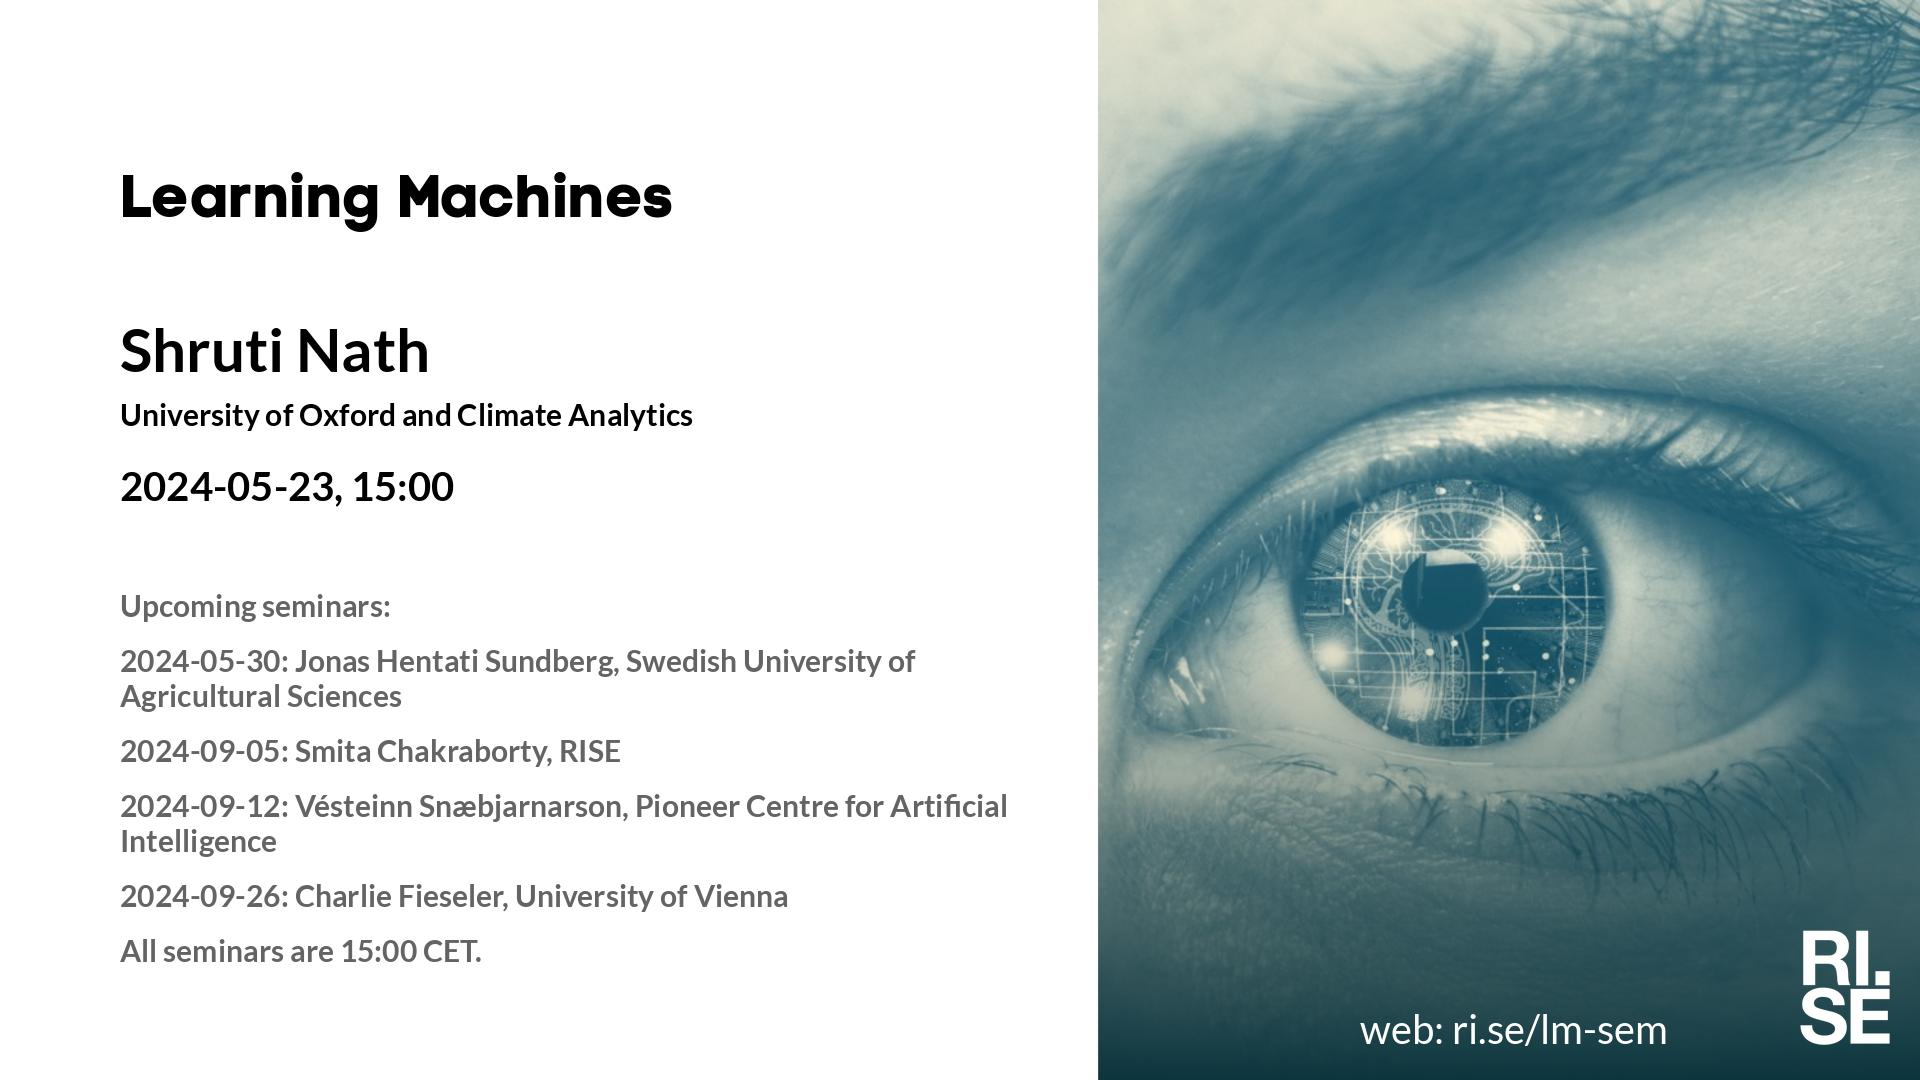
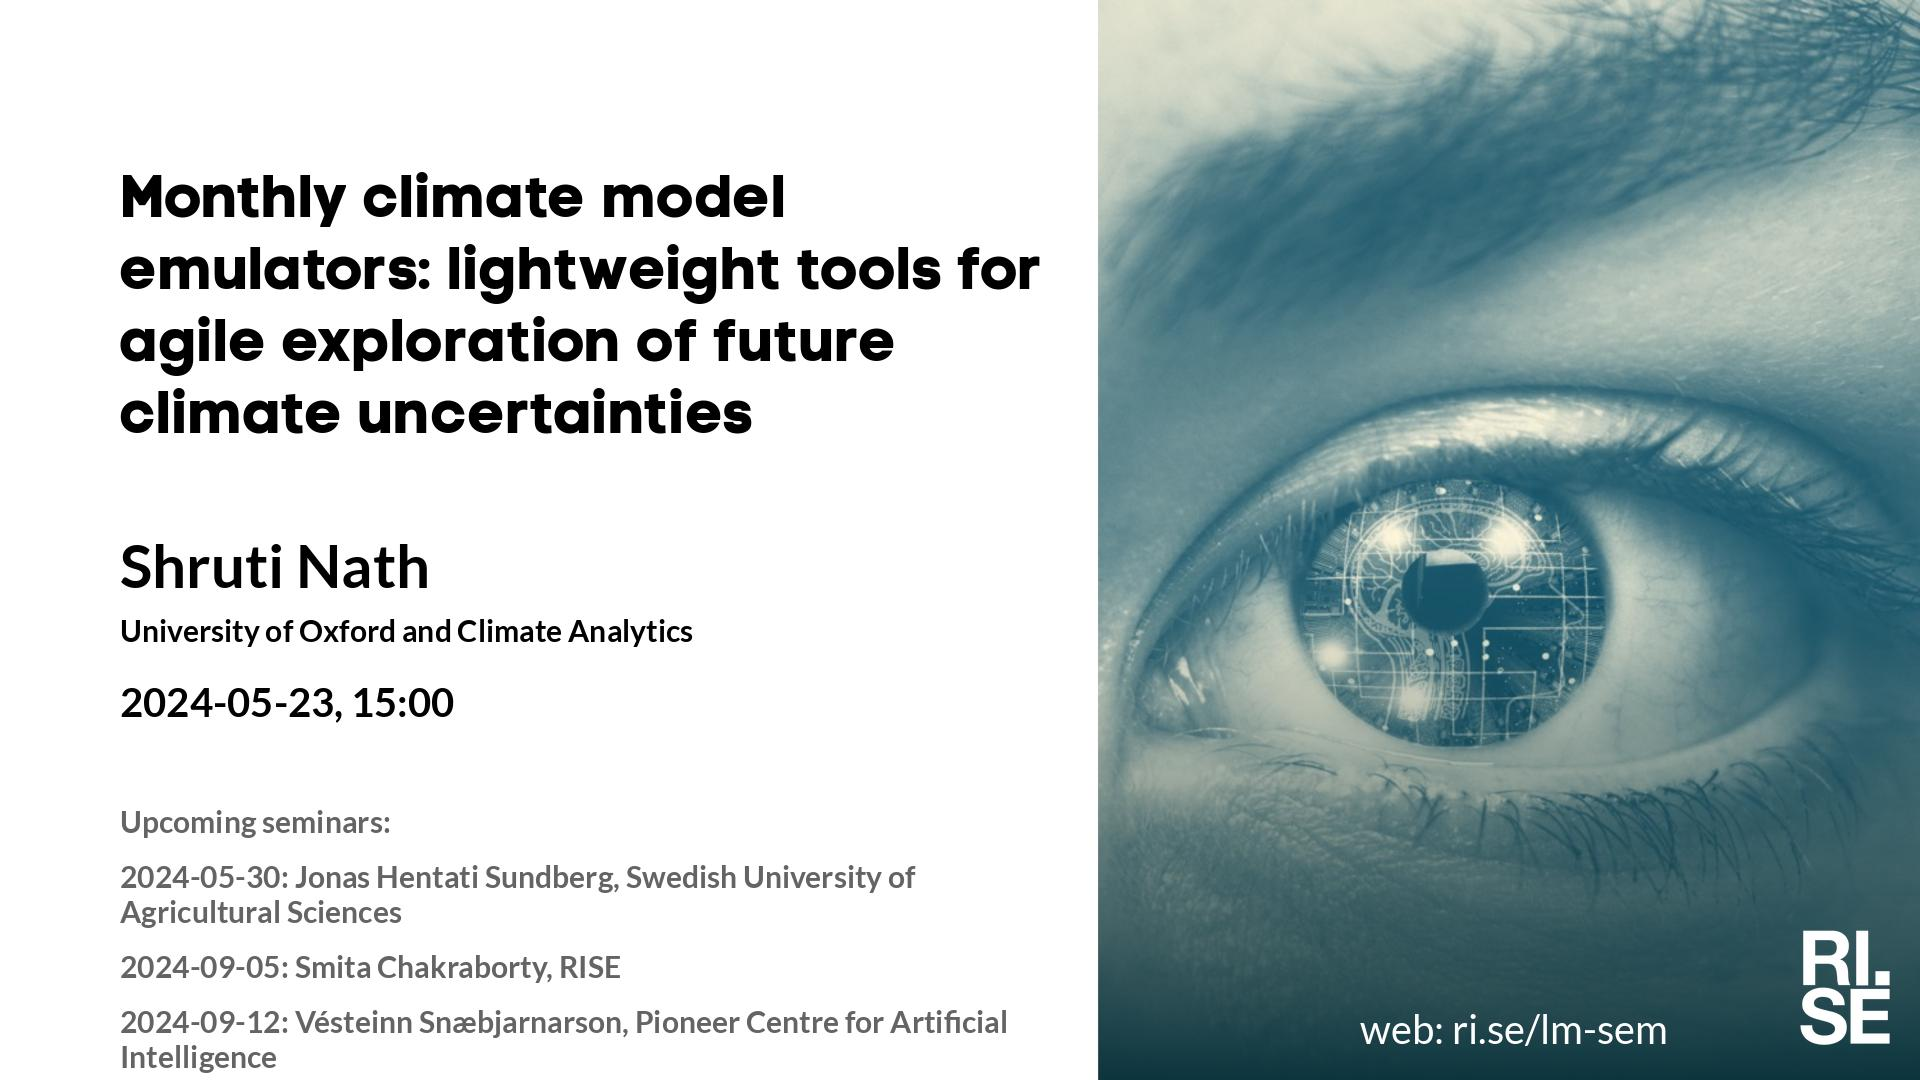
Updated plan on web site.

Changed region(s): [[0.0625, 0.7333, 0.5312, 1.0], [0.0625, 0.1528, 0.5625, 0.4278], [0.0625, 0.4278, 0.4688, 0.7028]]

diff --git a/lm/index.md b/lm/index.md
@@ -5,15 +5,14 @@ metatags: "<meta name=\"robots\" content=\"noindex,nofollow\" />"
 <style type="text/css" scoped>
 td, th {border: 1px solid #ccc; padding: 0.6em;}
 table {border-collapse: collapse;}
-</style># Learning Machines Plan 2024-05-14
+</style># Learning Machines Plan 2024-05-17
 
 | date | speaker                                   | photo | shareable | meeting backdrop | youtube thumbnail | <a title="Speaker, Title, Abstract, Bio, Photo. Strikethrough means we don't have it yet.">comment</a>        |
 | ---- | ----------------------------------------- | ----- | ----- | ----- | ----- | -------------- |
-|  2024-04-25  |  [TBA](2024-04-25.md)  |    |  [social media ](social-media-tba.jpg)  |  [meeting backdrop ](meeting-backdrop-tba.jpg)  |  [youtube thumbnail ](youtube-thumbnail-tba.jpg)  |  S~~TABP~~  |
 | <span style="color:red"> 2024-05-02 </span> | <span style="color:red"> ICLR </span> | <span style="color:red">  </span> | <span style="color:red">  </span> | <span style="color:red">  </span> | <span style="color:red">  </span> | <span style="color:red"> CANCELLED </span> |
 | <span style="color:red"> 2024-05-09 </span> | <span style="color:red"> ICLR </span> | <span style="color:red">  </span> | <span style="color:red">  </span> | <span style="color:red">  </span> | <span style="color:red">  </span> | <span style="color:red"> CANCELLED </span> |
 |  2024-05-16  |  [Mikolaj Czerkawski, European Space Agency](2024-05-16.md)  |  [photo](photo-mikolaj-czerkawski.jpg)  |  [social media ](social-media-mikolaj-czerkawski.jpg)  |  [meeting backdrop ](meeting-backdrop-mikolaj-czerkawski.jpg)  |  [youtube thumbnail ](youtube-thumbnail-mikolaj-czerkawski.jpg)  |  STABP  |
-|  2024-05-23  |  [Shruti Nath, University of Oxford and Climate Analytics](2024-05-23.md)  |  [photo](photo-shruti-nath.png)  |  [social media ](social-media-shruti-nath.jpg)  |  [meeting backdrop ](meeting-backdrop-shruti-nath.jpg)  |  [youtube thumbnail ](youtube-thumbnail-shruti-nath.jpg)  |  S~~TAB~~P  |
+|  2024-05-23  |  [Shruti Nath, University of Oxford and Climate Analytics](2024-05-23.md)  |  [photo](photo-shruti-nath.png)  |  [social media ](social-media-shruti-nath.jpg)  |  [meeting backdrop ](meeting-backdrop-shruti-nath.jpg)  |  [youtube thumbnail ](youtube-thumbnail-shruti-nath.jpg)  |  STABP  |
 |  2024-05-30  |  [Jonas Hentati Sundberg, Swedish University of Agricultural Sciences](2024-05-30.md)  |  [photo](photo-jonas-hentati-sundberg.jpg)  |  [social media ](social-media-jonas-hentati-sundberg.jpg)  |  [meeting backdrop ](meeting-backdrop-jonas-hentati-sundberg.jpg)  |  [youtube thumbnail ](youtube-thumbnail-jonas-hentati-sundberg.jpg)  |  S~~TAB~~P  |
 | <span style="color:red"> 2024-06-06 </span> | <span style="color:red"> National_day </span> | <span style="color:red">  </span> | <span style="color:red">  </span> | <span style="color:red">  </span> | <span style="color:red">  </span> | <span style="color:red"> CANCELLED </span> |
 |  2024-09-05  |  [Smita Chakraborty, RISE](2024-09-05.md)  |  [photo](photo-smita-chakraborty.jpg)  |  [social media ](social-media-smita-chakraborty.jpg)  |  [meeting backdrop ](meeting-backdrop-smita-chakraborty.jpg)  |  [youtube thumbnail ](youtube-thumbnail-smita-chakraborty.jpg)  |  S~~TAB~~P  |

diff --git a/lm/2024-05-23.md b/lm/2024-05-23.md
@@ -4,13 +4,13 @@ metatags: "<meta name=\"robots\" content=\"noindex,nofollow\" />"
 ---
 Welcome to this week's Learning Machines seminar.
 
-**Title:** N/A
+**Title:** Monthly climate model emulators: lightweight tools for agile exploration of future climate uncertainties
 
 **Speaker:** Shruti Nath, University of Oxford and Climate Analytics
 
-**Abstract:** N/A
+**Abstract:** Climate models lay the foundation on which we can explore future climate scenarios and the impacts of anthropogenic greenhouse gas (GHG) emissions. They are process-driven models which solve a set of governing, physical equations over a discretized grid to prognose and diagnose a wide range of climate variables. Running climate models typically takes months and carries high computational costs for generating and storing realizations. This makes exploring uncertainties surrounding future emission trajectories, alongside other uncertainties – such as that due to natural climate variability – time consuming and computationally expensive. Climate model emulators are lightweight statistical tools that train on climate models to then approximate key relationships and properties of impact-relevant climate variables in a functionally identical manner. In this talk I will mainly discuss climate model emulator developments conducted on a monthly level and give examples of use-cases within extreme event attribution. I will furthermore talk about data compression techniques used when extending climate model emulator frameworks to multivariate emulations and give concrete examples of impacts that can be explored with such monthly, multivariate emulations.
 
-**About the speaker:** N/A
+**About the speaker:** Shruti Nath has a background in mathematics and completed her PhD jointly at the Berlin based NGO Climate Analytics and the Institute of Atmospheric and Climate Sciences at ETH Zürich. Her PhD involved lightweight emulator development, where she explored a range of statistical methods to approximate the uncertainty dimensions surrounding future climate scenarios. Dr. Nath is currently based at the University of Oxford as a Postdoctoral researcher.
 
 **Location:** This is an online seminar. Connect using Zoom.
 
